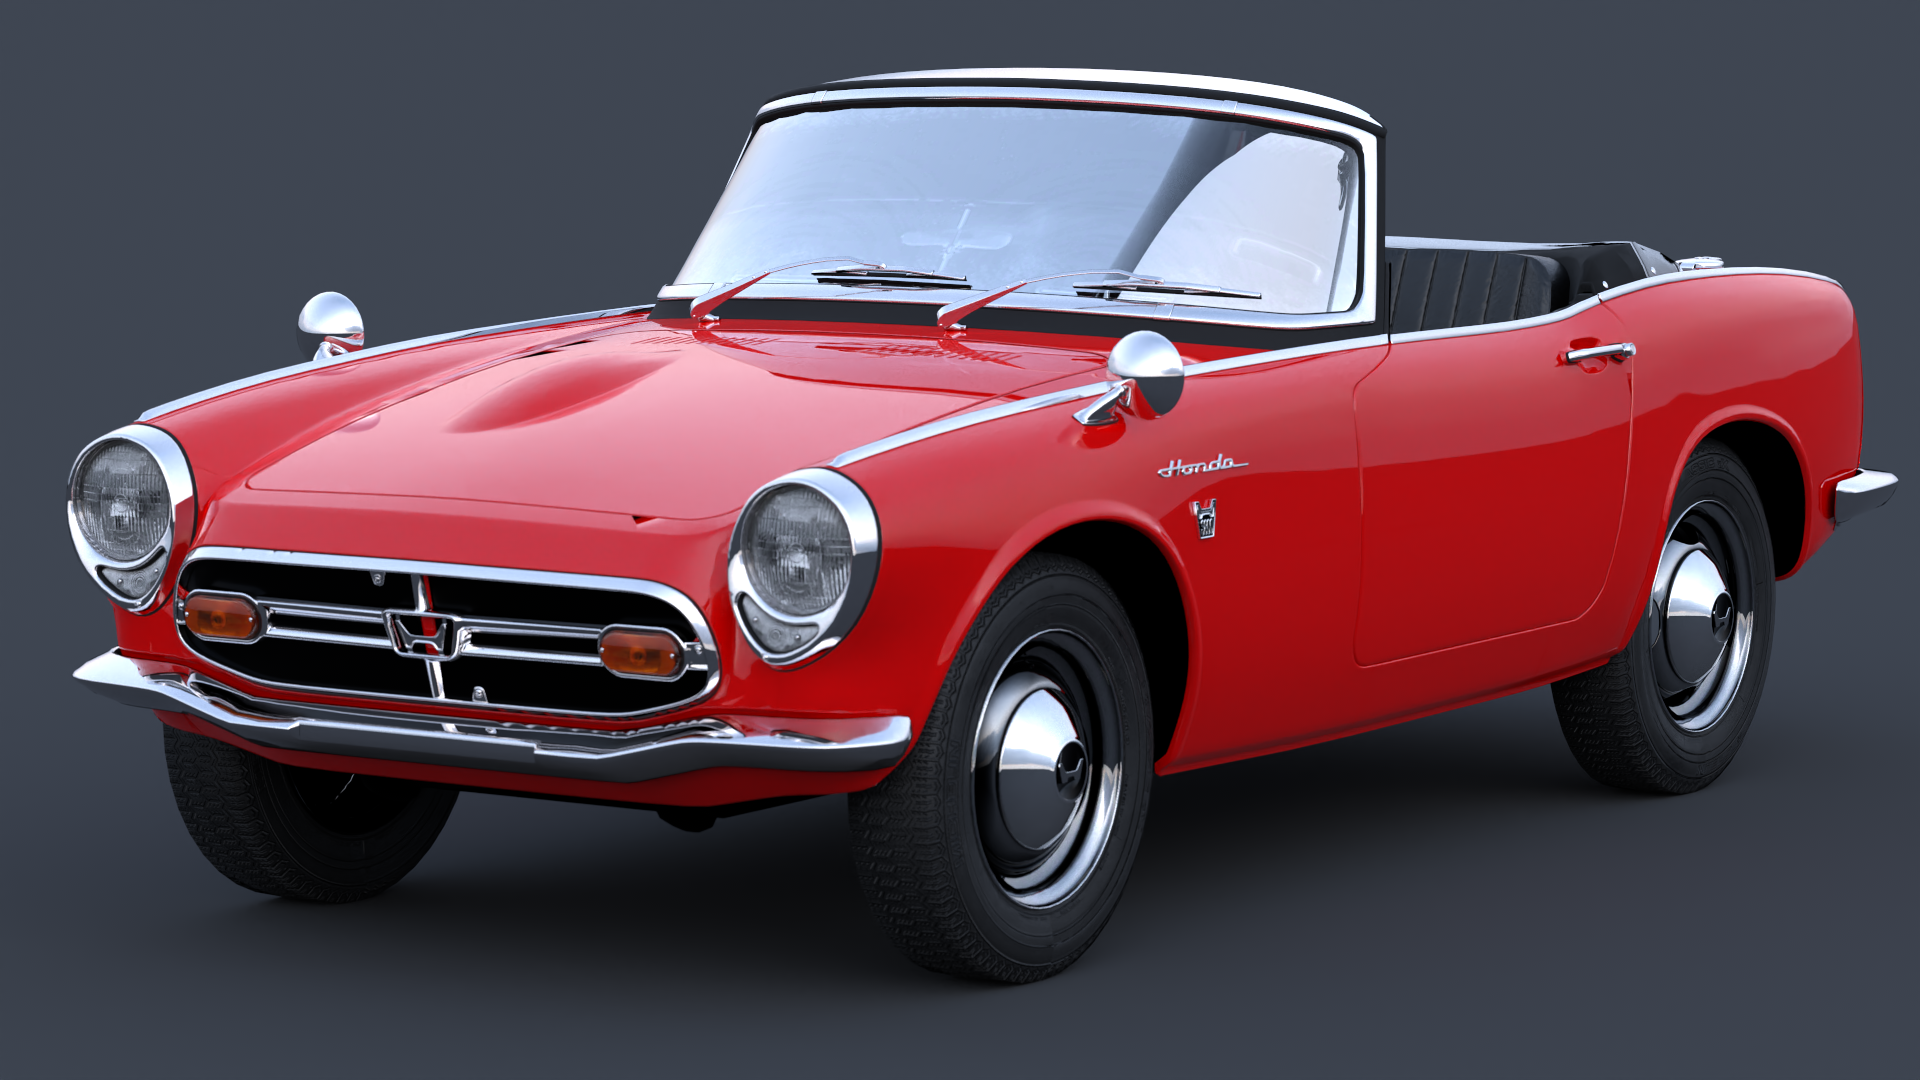
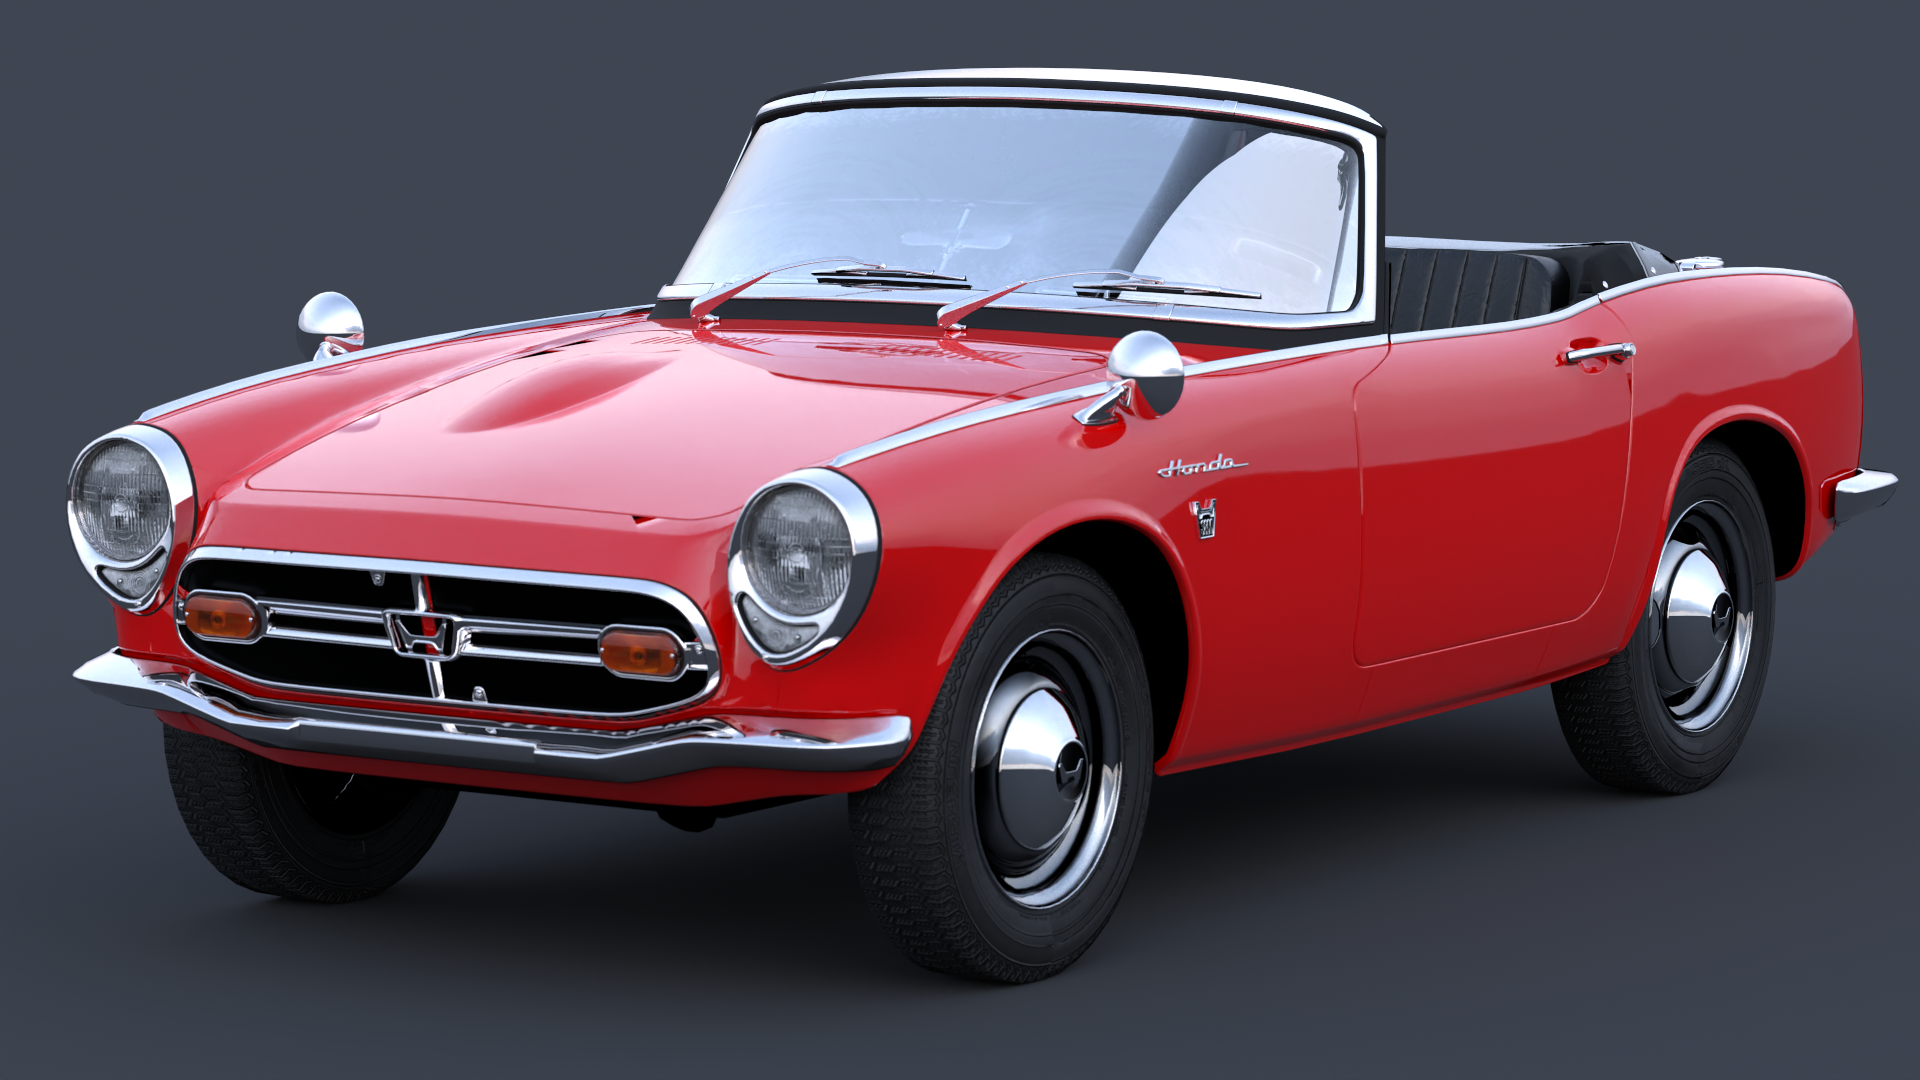
Add clearcoat layer to Plastic material
Added a clearcoat alpha and clearcoat weight
to the Plastic material and Composite pdf.
It is turned off by default so other scenes
will render the same as before. The Honda
scene was updated to use the new clearcoat
layer.

diff --git a/src/materials.rs b/src/materials.rs
@@ -536,6 +536,8 @@ pub struct Plastic {
     pub roughness: f32,
     pub ior: f32,
     pub subsurface: f32,
+    pub clearcoat: f32,
+    pub clearcoat_roughness: f32,
     pub texture_map: TextureMap
 }
 
@@ -548,11 +550,19 @@ impl Plastic {
     pub fn new(albedo: TextureId, roughness: f32, ior: f32) -> Plastic {
         let texture_map = TextureMap::new(albedo);
         let subsurface = 0.0;
-        Plastic { roughness, ior, subsurface, texture_map }
+        let clearcoat = 0.0;
+        let clearcoat_roughness = 0.025;
+        Plastic { roughness, ior, subsurface, clearcoat, clearcoat_roughness, texture_map }
     }
 
     pub fn with_subsurface(mut self, subsurface: f32) -> Self {
         self.subsurface = subsurface;
+        self
+    }
+
+    pub fn with_clearcoat(mut self, clearcoat: f32, clearcoat_roughness: f32) -> Self {
+        self.clearcoat = clearcoat.clamp(0.0, 1.0);
+        self.clearcoat_roughness = clearcoat_roughness.clamp(0.025, 1.0);
         self
     }
 
@@ -578,30 +588,41 @@ impl Plastic {
         }
     }
 
-    /// Generate either a specular or diffuse response to a surface hit, dependent
-    /// on a random reflect probability.
-    fn generate_response(&self, ray: &Ray, result: &HitResult, textures: &[Texture]) -> Option<ScatterResult> {
-        let (geometric_normal, base_shading_normal) = result.face_forward_normals(&ray.direction);
-        let shading_normal = self.get_mapped_normal(result, base_shading_normal, textures);
-
-        let roughness = if let Some(roughness_id) = self.texture_map.roughness {
+    fn sample_roughness(&self, result: &HitResult, textures: &[Texture]) -> f32 {
+        if let Some(roughness_id) = self.texture_map.roughness {
             let roughness_map_texture = &textures[roughness_id.index()];
             let roughness_map_value = roughness_map_texture.sample_texture(result.u, result.v);
             roughness_map_value.x
         } else if let Some(roughness_id) = self.texture_map.metallic_roughness {
             let roughness_map_texture = &textures[roughness_id.index()];
             let roughness_map_value = roughness_map_texture.sample_texture(result.u, result.v);
-            roughness_map_value.y // handling metallic roughness map
+            roughness_map_value.y
         } else {
             self.roughness
-        };
+        }
+    }
 
+    /// Generate either a specular or diffuse response to a surface hit, dependent
+    /// on a random reflect probability.
+    fn generate_response(&self, ray: &Ray, result: &HitResult, textures: &[Texture]) -> Option<ScatterResult> {
+        let (geometric_normal, base_shading_normal) = result.face_forward_normals(&ray.direction);
+        let shading_normal = self.get_mapped_normal(result, base_shading_normal, textures);
+
+        let roughness = self.sample_roughness(result, textures);
         let alpha = (roughness * roughness).max(0.0);
 
+        // purposely keeping this as result.shading_normal instead of shading_normal
+        // as the shadows look better
         let cos_theta_i = (-ray.direction).dot(result.shading_normal).max(0.0);
         let r = (1.0 - self.ior) / (1.0 + self.ior);
         let f0 = r * r;
         let fresnel = f0 + (1.0 - f0) * (1.0 - cos_theta_i).powi(5);
+
+        let clearcoat_weight = self.clearcoat * fresnel;
+        let clearcoat_alpha = (self.clearcoat_roughness * self.clearcoat_roughness).max(0.0);
+
+        let remaining = 1.0 - clearcoat_weight;
+        let specular_weight = remaining * fresnel;
 
         let offset_point = find_offset_point(result.point, geometric_normal);
         let scattered_ray = Ray::new(offset_point, ray.direction, ray.time);
@@ -611,7 +632,9 @@ impl Plastic {
             wi: -ray.direction,
             normal: shading_normal,
             alpha,
-            specular_weight: fresnel,
+            clearcoat_alpha,
+            specular_weight,
+            clearcoat_weight,
         };
 
         Some(ScatterResult::new(scattered_ray, Vec3A::ONE, pdf))
@@ -640,23 +663,27 @@ impl Plastic {
         let v_dot_h = wi.dot(h).max(0.0);
         let micro_fresnel = schlick_from_ior(v_dot_h, self.ior);
 
-        let roughness = if let Some(roughness_id) = self.texture_map.roughness {
-            let roughness_map_texture = &textures[roughness_id.index()];
-            let roughness_map_value = roughness_map_texture.sample_texture(result.u, result.v);
-            roughness_map_value.x
-        } else if let Some(roughness_id) = self.texture_map.metallic_roughness {
-            let roughness_map_texture = &textures[roughness_id.index()];
-            let roughness_map_value = roughness_map_texture.sample_texture(result.u, result.v);
-            roughness_map_value.y // handling metallic roughness map
-        } else {
-            self.roughness
-        };
-
+        let roughness = self.sample_roughness(result, textures);
         let alpha = (roughness * roughness).max(0.0);
 
         let d = ggx_distribution(cos_h, alpha);
         let g = ggx_height_correlated_geometry(cos_i, cos_o, alpha);
         let specular = Vec3A::splat(micro_fresnel * d * g / (4.0 * cos_i));
+
+        let (clearcoat, coat_transmittance) = if self.clearcoat > 0.0 {
+            let clearcoat_fresnel = schlick_from_ior(v_dot_h, self.ior);
+            let clearcoat_alpha = (self.clearcoat_roughness * self.clearcoat_roughness).max(0.0);
+            let clearcoat_d = ggx_distribution(cos_h, clearcoat_alpha);
+            let clearcoat_g = ggx_height_correlated_geometry(cos_i, cos_o, clearcoat_alpha);
+            let clearcoat_term = Vec3A::splat(self.clearcoat * clearcoat_fresnel * clearcoat_d * clearcoat_g / (4.0 * cos_i));
+
+            let blocked = self.clearcoat * clearcoat_fresnel;
+            (clearcoat_term, 1.0 - blocked)
+        } else {
+            (Vec3A::ZERO, 1.0)
+        };
+
+        let specular = specular * coat_transmittance;
 
         // the macro fresnel term creates too dark shadows at grazing angles so
         // we use Burley's roughness model to account for that with a highlight.
@@ -680,8 +707,8 @@ impl Plastic {
         let blended_diffuse = (1.0 - self.subsurface) * base_diffuse + self.subsurface * subsurface_approximation;
 
         let albedo = textures[self.texture_map.color.index()].sample_texture(result.u, result.v);
-        let diffuse = albedo * (blended_diffuse * cos_o / PI);
+        let diffuse = albedo * (blended_diffuse * cos_o / PI) * coat_transmittance;
 
-        specular + diffuse
+        specular + diffuse + clearcoat
     }
 }

diff --git a/src/pdf.rs b/src/pdf.rs
@@ -38,7 +38,15 @@ pub fn power_heuristic(f_pdf: f32, g_pdf: f32) -> f32 {
 #[derive(IsVariant)]
 pub enum PDF {
     Cosine { uvw: OrthonormalBasis },
-    Composite { uvw: OrthonormalBasis, wi: Vec3A, normal: Vec3A, alpha: f32, specular_weight: f32 },
+    Composite {
+        uvw: OrthonormalBasis,
+        wi: Vec3A,
+        normal: Vec3A,
+        alpha: f32,
+        specular_weight: f32,
+        clearcoat_alpha: f32,
+        clearcoat_weight: f32,
+    },
     Delta,
     GGX { wi: Vec3A, normal: Vec3A, alpha: f32 },
     Uniform,
@@ -52,11 +60,13 @@ impl PDF {
                 let cosine = direction.dot(uvw.w());
                 if cosine > 0.0 { cosine / PI } else { 0.0 }
             },
-            PDF::Composite { uvw, wi, normal, alpha, specular_weight } => {
+            PDF::Composite { uvw, wi, normal, alpha, specular_weight, clearcoat_alpha, clearcoat_weight } => {
                 let diffuse_pdf = PDF::Cosine { uvw: *uvw }.calculate_probability(direction);
                 let specular_pdf = PDF::GGX { wi: *wi, normal: *normal, alpha: *alpha }.calculate_probability(direction);
+                let clearcoat_pdf = PDF::GGX { wi: *wi, normal: *normal, alpha: *clearcoat_alpha }.calculate_probability(direction);
 
-                (*specular_weight * specular_pdf) + ((1.0 - *specular_weight) * diffuse_pdf)
+                let diffuse_weight = (1.0 - *specular_weight - *clearcoat_weight).max(0.0);
+                (*clearcoat_weight * clearcoat_pdf) + (*specular_weight * specular_pdf) + (diffuse_weight * diffuse_pdf)
             }
             PDF::Delta => panic!("Delta PDF has no meaningful probability."),
             PDF::GGX { wi, normal, alpha } => {
@@ -88,12 +98,15 @@ impl PDF {
             PDF::Cosine { uvw } => {
                 uvw.local(&cosine_sample_hemisphere(rng))
             },
-            PDF::Composite { uvw, wi, normal, alpha, specular_weight } => {
-                if rng.random::<f32>() < *specular_weight {
-                    PDF::GGX { wi: *wi, normal: *normal, alpha: *alpha }.pick_direction(rng)
-                } else {
-                    PDF::Cosine { uvw: *uvw }.pick_direction(rng)
-                }
+            PDF::Composite { uvw, wi, normal, alpha, specular_weight, clearcoat_alpha, clearcoat_weight } => {
+                let u = rng.random::<f32>();
+                    if u < *clearcoat_weight {
+                        PDF::GGX { wi: *wi, normal: *normal, alpha: *clearcoat_alpha }.pick_direction(rng)
+                    } else if u < *clearcoat_weight + *specular_weight {
+                        PDF::GGX { wi: *wi, normal: *normal, alpha: *alpha }.pick_direction(rng)
+                    } else {
+                        PDF::Cosine { uvw: *uvw }.pick_direction(rng)
+                    }
             }
             PDF::Delta => panic!("Delta PDF should never be sampled directly."),
             PDF::GGX { wi, normal, alpha } => {

diff --git a/scenes/honda.rs b/scenes/honda.rs
@@ -44,16 +44,16 @@ pub fn honda_scene(width: Option<usize>, height: Option<usize>) -> Scene {
         0.0, 0.0,
     );
 
-
     let mut objects: Vec<Primitive> = Vec::new();
     let mut materials: Vec<Material> = Vec::new();
     let mut textures: Vec<Texture> = Vec::new();
 
     let mut material_overrides: HashMap<String, Material> = HashMap::new();
     let car_paint_id = tex!(textures, Color::new(0.568452, 0.0, 0.0));
-    let car_paint_material = Plastic::new(car_paint_id, 0.025, 1.5);
+    let car_paint_material = Plastic::new(car_paint_id, 0.04, 1.5).with_clearcoat(0.6, 0.025);
     material_overrides.insert("EXT_paint".to_string(), car_paint_material.into());
-    let obj_options = LoadObjOptions::new().with_overrides(Some(material_overrides));
+    let obj_options = LoadObjOptions::new()
+        .with_overrides(Some(material_overrides));
 
     let (meshes, _) = load_obj_with_options("extras/models/honda/honda.obj", &mut materials, &mut textures, obj_options);
 
